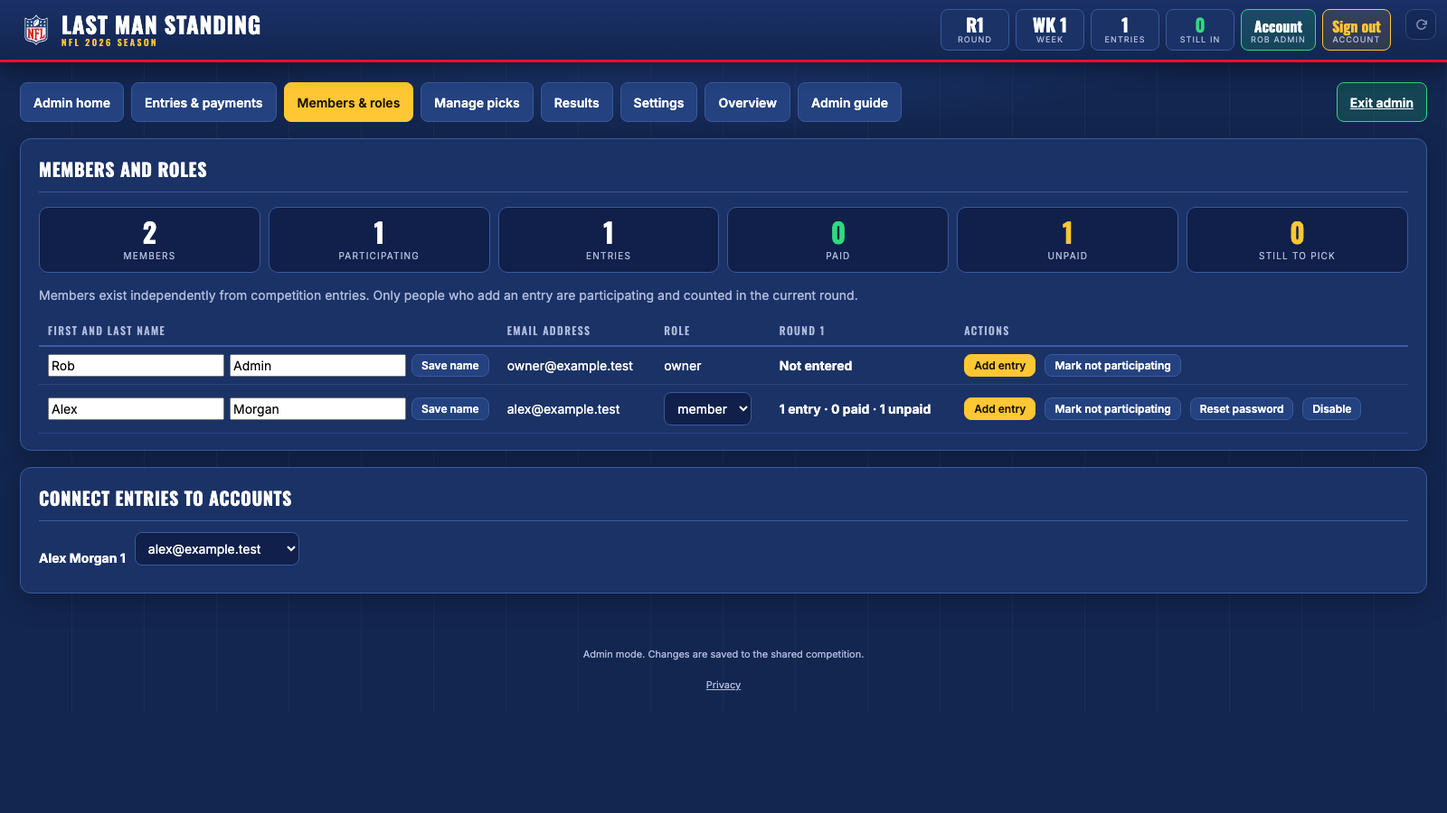
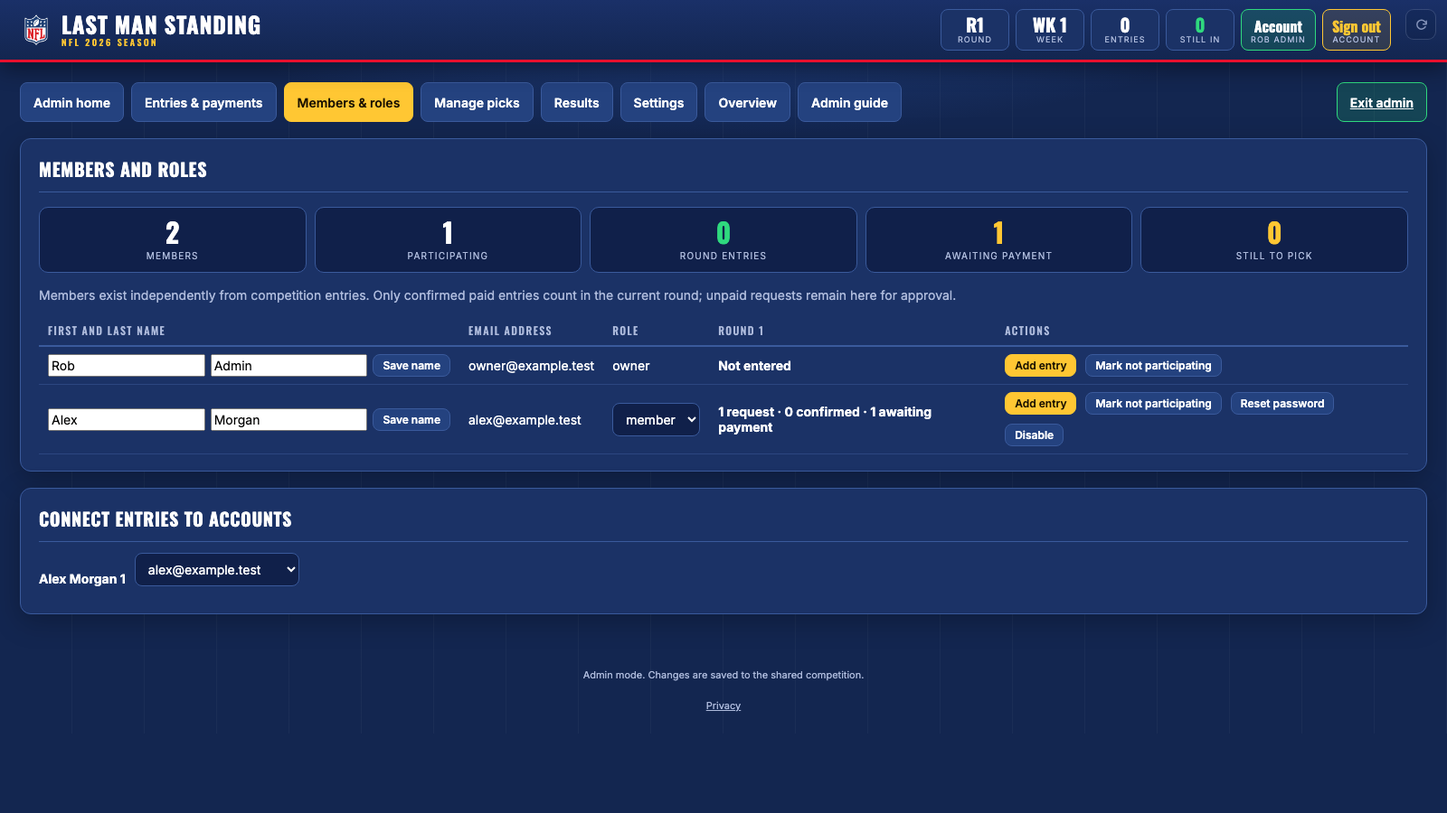
Count only confirmed competition entries

diff --git a/index.html b/index.html
@@ -346,7 +346,7 @@ html{-webkit-text-size-adjust:100%;text-size-adjust:100%}
 .account-identity{display:grid;grid-template-columns:minmax(0,1fr) auto;align-items:center;gap:18px}.account-identity h1{font-family:var(--font-head);font-size:clamp(30px,5vw,48px);line-height:1;margin:7px 0}.account-actions{display:flex;flex-wrap:wrap;justify-content:flex-end;gap:8px}.account-entry-switch{grid-column:1/-1;border-top:1px solid var(--line);padding-top:14px}.account-entry-tabs{display:flex;flex-wrap:wrap;gap:8px;margin-top:8px}.account-summary{margin-bottom:18px}.account-status{font-family:var(--font-head);font-size:clamp(28px,5vw,42px);margin:12px 0 6px}.account-status.active{color:var(--green)}.account-status.inactive{color:var(--gold)}.account-current-pick{display:flex;align-items:center;gap:14px;margin-top:12px}.account-current-pick strong{display:block;font-size:18px}.account-current-pick span{display:block;color:var(--grey);font-size:12px;margin-top:5px}.account-history{display:grid;gap:7px}.account-history-row{display:grid;grid-template-columns:70px minmax(0,1fr) auto;align-items:center;gap:12px;padding:10px 12px;background:var(--deep);border:1px solid var(--line);border-radius:9px}.account-week{color:var(--grey);font-size:12px;font-weight:700}.account-team-grid{display:grid;grid-template-columns:repeat(auto-fill,minmax(145px,1fr));gap:7px}.account-team-card{display:flex;align-items:center;gap:9px;min-width:0;padding:9px 10px;background:var(--deep);border:1px solid var(--line);border-radius:9px}.account-team-card .logo{flex:none}.account-team-card div{min-width:0}.account-team-card b,.account-team-card span{display:block;white-space:nowrap;overflow:hidden;text-overflow:ellipsis}.account-team-card span{color:var(--grey);font-size:10px;margin-top:3px}@media(max-width:650px){.account-identity{grid-template-columns:1fr}.account-actions{justify-content:flex-start}.account-history-row{grid-template-columns:58px minmax(0,1fr)}.account-history-row>.pill{grid-column:2}.account-team-grid{grid-template-columns:repeat(2,minmax(0,1fr))}.account-team-card{padding:8px}.account-team-card .logo.lg{width:32px;height:32px}}
 .member-name-editor{display:grid;grid-template-columns:minmax(110px,1fr) minmax(140px,1fr) auto;gap:6px;min-width:390px}.name-required{color:#ff9aa8;font-weight:700;margin-top:5px}@media(max-width:650px){.member-name-editor{min-width:320px}}
 .brand{width:max-content;max-width:calc(100% - 42px);text-decoration:none;color:inherit;border-radius:7px}.brand:hover h1{color:#fff}.brand:focus-visible{outline:2px solid var(--gold);outline-offset:5px}.hdr-top{position:relative;padding-right:62px}.refresh-app{position:absolute;z-index:21;right:12px;top:10px;display:flex;align-items:center;justify-content:center;width:34px;height:34px;padding:7px;border:1px solid rgba(166,181,214,.32);border-radius:9px;background:rgba(8,24,58,.28);color:var(--grey);opacity:.72;cursor:pointer}.refresh-app:hover,.refresh-app:focus-visible{opacity:1;color:#fff;border-color:var(--line);background:rgba(36,66,127,.75)}.refresh-app svg{width:17px;height:17px;fill:none;stroke:currentColor;stroke-width:2.1;stroke-linecap:round;stroke-linejoin:round}.refresh-app.refreshing svg{animation:refresh-spin .8s linear infinite}@keyframes refresh-spin{to{transform:rotate(360deg)}}@media(max-width:900px){body .hdr-top{padding-right:54px}}@media(max-width:600px){.refresh-app{right:9px;top:9px;width:32px;height:32px;padding:7px;opacity:.62}}
-.stat.account-access{min-width:76px;background:rgba(31,191,106,.2);border-color:var(--green);color:inherit;text-decoration:none}.stat.account-access .v{color:#fff;font-size:16px;padding-top:4px}.stat.signout-access{color:inherit;font:inherit}.participation-summary{display:grid;grid-template-columns:repeat(6,minmax(92px,1fr));gap:9px;margin:16px 0}.participation-summary>div{padding:12px;border:1px solid var(--line);border-radius:10px;background:var(--deep);text-align:center}.participation-summary b{display:block;font:700 30px/1 var(--font-head);color:#fff}.participation-summary span{display:block;margin-top:5px;color:var(--grey);font-size:10px;text-transform:uppercase;letter-spacing:.12em}.participation-summary .paid b{color:var(--green)}.participation-summary .unpaid b,.participation-summary .topick b{color:var(--gold)}.admin-nav .admin-exit{margin-left:auto;background:rgba(31,191,106,.2);border-color:var(--green)}@media(max-width:900px){.participation-summary{grid-template-columns:repeat(3,minmax(0,1fr))}.stat.account-access{min-width:0}}@media(max-width:520px){.participation-summary{grid-template-columns:repeat(2,minmax(0,1fr))}.stat.account-access .v{font-size:13px}.admin-nav .admin-exit{margin-left:0}}
+.stat.account-access{min-width:76px;background:rgba(31,191,106,.2);border-color:var(--green);color:inherit;text-decoration:none}.stat.account-access .v{color:#fff;font-size:16px;padding-top:4px}.stat.signout-access{color:inherit;font:inherit}.participation-summary{display:grid;grid-template-columns:repeat(5,minmax(92px,1fr));gap:9px;margin:16px 0}.participation-summary>div{padding:12px;border:1px solid var(--line);border-radius:10px;background:var(--deep);text-align:center}.participation-summary b{display:block;font:700 30px/1 var(--font-head);color:#fff}.participation-summary span{display:block;margin-top:5px;color:var(--grey);font-size:10px;text-transform:uppercase;letter-spacing:.12em}.participation-summary .paid b{color:var(--green)}.participation-summary .unpaid b,.participation-summary .topick b{color:var(--gold)}.admin-nav .admin-exit{margin-left:auto;background:rgba(31,191,106,.2);border-color:var(--green)}@media(max-width:900px){.participation-summary{grid-template-columns:repeat(3,minmax(0,1fr))}.stat.account-access{min-width:0}}@media(max-width:520px){.participation-summary{grid-template-columns:repeat(2,minmax(0,1fr))}.stat.account-access .v{font-size:13px}.admin-nav .admin-exit{margin-left:0}}
 </style>
 </head>
 <body>
@@ -753,20 +753,22 @@ function render(){
   renderHeader(r,comp);
   const main=document.getElementById('main');
   document.body.classList.toggle('ro', isRO());
-  const memberViews={dash:renderDashboard,picks:renderPicksPage,results:renderResults,standings:renderStandings};
+  const memberViews={dash:(round,competition)=>renderDashboard(round,competition,announcementBanner()+noEntryBanner()+deadlineBanner(defaultWeek())),picks:renderPicksPage,results:renderResults,standings:renderStandings};
   const adminViews={adminhome:renderAdminHome,adminhelp:renderAdminHelp,dash:renderDash,picks:renderPicks,results:renderResults,entries:renderEntries,settings:renderSettings};
   const views=ADMIN?adminViews:memberViews;
-  main.innerHTML=accountBar()+(!ADMIN?announcementBanner()+noEntryBanner():'')+(S.ui.view==='dash'?deadlineBanner(defaultWeek()):'')+(views[S.ui.view]||views.dash)(r,comp);
+  const outsideDashboard=!ADMIN&&S.ui.view!=='dash'?announcementBanner()+noEntryBanner():'';
+  main.innerHTML=accountBar()+outsideDashboard+(ADMIN&&S.ui.view==='dash'?deadlineBanner(defaultWeek()):'')+(views[S.ui.view]||views.dash)(r,comp);
   const foot=document.getElementById('foot'); if(foot) foot.innerHTML = SHARED ? (ADMIN?(HOSTED?'Admin mode. Changes are saved in this browser until you press Publish.':'Admin mode. Changes are saved in this browser; press Download and upload the new index.html to update the shared page.'):'Live standings. Updated by the organiser after each round of games.') : 'Last Man Standing. Data is saved in this browser. Use Settings &rarr; Backup to export a copy.';
   if(REMOTE && foot) foot.textContent=ADMIN?'Admin mode. Changes are saved to the shared competition.':'Live standings. Refreshes every 45 seconds.';
   if(S.ui.view==='entries') wireDrop();
 }
 function renderHeader(r,comp){
   const entries=roundEntries(r);
+  const confirmed=entries.filter(e=>entryPaid(e,r,comp)).length;
   document.getElementById('hdrStats').innerHTML=`
     <div class="stat"><div class="v">R${r.n}</div><div class="l">Round</div></div>
     <div class="stat"><div class="v">WK ${S.ui.week||defaultWeek()}</div><div class="l">Week</div></div>
-    <div class="stat"><div class="v">${entries.length}</div><div class="l">Entries</div></div>
+    <div class="stat"><div class="v">${confirmed}</div><div class="l">Entries</div></div>
     <div class="stat alive"><div class="v">${comp.alive.size}</div><div class="l">Still In</div></div>
     ${REMOTE?remoteHeader():SHARED?(ADMIN?`<div class="stat pub ${isDirty()?'dirty':''}" onclick="${HOSTED?'publishLive()':'exportLivePage()'}" title="${HOSTED?'Publish the current state so everyone with the link sees it':'Download an updated index.html to upload to your web host'}"><div class="v">${HOSTED?(isDirty()?'⬆ Publish':'✓ Live'):'⬇ Download'}</div><div class="l">${isDirty()?'unpublished changes':'up to date'}</div></div><div class="stat pub" style="border-color:var(--line);background:transparent" onclick="toggleAdmin()"><div class="v" style="color:#fff">Admin</div><div class="l">exit</div></div>`:`<div class="stat pub" style="border-color:var(--line);background:transparent;opacity:.6" onclick="toggleAdmin()" title="Organiser only"><div class="v" style="color:#fff">🔒</div><div class="l">organiser</div></div>`):''}`;
 }
@@ -786,23 +788,23 @@ function renderFixturesCard(w){
     </div>
   </div>`;
 }
-function renderHome(r,comp){
+function renderHome(r,comp,afterHero=''){
   const pot=prizePot(r,comp),entries=roundEntries(r);
   const w=defaultWeek();
-  const paid=entries.filter(e=>entryPaid(e,r,comp)).length,missing=missingEntries(w,r,comp).length;
+  const confirmed=entries.filter(e=>entryPaid(e,r,comp)),eligible=confirmed.filter(e=>isAliveForWeek(comp,w,e.id)),missing=missingEntries(w,r,comp).length,picked=eligible.filter(e=>S.picks[e.id]?.[w]).length;
   const first=GAMES.slice().sort((a,b)=>a.date.localeCompare(b.date))[0];
   const wkCur=gamesByWeek(w);
   const last=GAMES.slice().sort((a,b)=>b.date.localeCompare(a.date))[0];
   const winnerBanner = comp.complete&&comp.winnerIds ? `<div class="banner gold">🏆 Round ${r.n} ${comp.winnerIds.length===1?'winner':'shared by'}: ${esc(comp.winnerIds.map(entryName).join(', '))} - ${gbp(pot)}</div>` : '';
   return `${winnerBanner}
   <div class="homehero"><div class="heroflag"></div>
-    <div class="kick">NFL 2026 Season · ${entries.length?`${entries.length} entries`:'Entries open'}</div>
+    <div class="kick">NFL 2026 Season · ${confirmed.length?`${confirmed.length} round ${confirmed.length===1?'entry':'entries'}`:'Entries open'}</div>
     <h1 class="big">Last Man <span>Standing</span></h1>
     <p>Pick One team per week. Win to stay in, losers go out. Last man standing take the pot.</p>
     <div class="herostats">
+      <div class="herostat green"><div class="v">${confirmed.length}</div><div class="l">Round entries</div></div>
       <div class="herostat gold"><div class="v">${gbp(pot)}</div><div class="l">Current pot</div></div>
-      <div class="herostat green"><div class="v">${paid}</div><div class="l">Paid</div></div>
-      <div class="herostat gold"><div class="v">${entries.length-paid}</div><div class="l">Unpaid</div></div>
+      <div class="herostat green"><div class="v">${picked}</div><div class="l">Picked</div></div>
       <div class="herostat"><div class="v">${missing}</div><div class="l">Still to pick</div></div>
     </div>
     <div class="hero-actions">
@@ -813,6 +815,7 @@ function renderHome(r,comp){
       <a class="btn" href="/help">How to guide</a>
     </div>
   </div>
+  ${afterHero}
   <div class="card"><h2>The 32 teams <span class="tag">each team once until a rollover or new round</span></h2>
     <div class="logowall">${TEAM_LIST.map(t=>`<div class="lw">${logoImg(t.abbr,'logo xl')}<div class="ab">${esc(t.short)}</div></div>`).join('')}</div>
   </div>
@@ -839,7 +842,7 @@ function renderHome(r,comp){
   </div>`;
 }
 
-function renderDashboard(r,comp){return renderHome(r,comp);}
+function renderDashboard(r,comp,afterHero=''){return renderHome(r,comp,afterHero);}
 
 /* ---- Competition overview ---- */
 function renderDash(r,comp){
@@ -908,11 +911,10 @@ function renderDash(r,comp){
 }
 
 function renderStandings(r,comp){
-  const w=defaultWeek(),entries=roundEntries(r);
+  const w=defaultWeek(),entries=roundEntries(r).filter(e=>entryPaid(e,r,comp));
   const pot=prizePot(r,comp);
   const aliveList=entries.filter(e=>comp.alive.has(e.id)).sort((a,b)=>a.name.localeCompare(b.name));
-  const pendingList=entries.filter(e=>!entryPaid(e,r,comp)).sort((a,b)=>a.name.localeCompare(b.name));
-  const outList=entries.filter(e=>!comp.alive.has(e.id)&&!pendingList.includes(e)).sort((a,b)=>a.name.localeCompare(b.name));
+  const outList=entries.filter(e=>!comp.alive.has(e.id)).sort((a,b)=>a.name.localeCompare(b.name));
   const missing=aliveList.filter(e=>!S.picks[e.id]?.[w]&&!weekSettled(w)&&isAliveForWeek(comp,w,e.id));
   const pickCounts={};aliveList.forEach(e=>{const p=visiblePick(e.id,w);if(p&&p!=='HIDDEN')pickCounts[p]=(pickCounts[p]||0)+1;});
   const popular=Object.entries(pickCounts).sort((a,b)=>b[1]-a[1]).slice(0,8);
@@ -933,12 +935,11 @@ function renderStandings(r,comp){
     return `<div class="standing-row"><div class="standing-name"><strong>${esc(entryName(e.id))}</strong></div><div class="standing-picks" aria-label="Teams picked by ${esc(entryName(e.id))}">${picks.join('')||'<span class="muted small">No picks yet</span>'}</div></div>`;
   }).join('')}</div>`:'<div class="empty">Nobody in this group.</div>';
   return `<div class="hero">
-    <div class="bigpot"><div class="lbl">Round ${r.n} prize pot</div><div class="amt">${gbp(pot)}</div><div class="muted small">Confirmed entry and rollover fees &middot; ${entries.filter(e=>entryPaid(e,r,comp)).length} paid, ${entries.filter(e=>!entryPaid(e,r,comp)).length} unpaid</div><div style="margin-top:16px"><button class="btn" onclick="setView('picks')">Picks and history</button></div></div>
+    <div class="bigpot"><div class="lbl">Round ${r.n} prize pot</div><div class="amt">${gbp(pot)}</div><div class="muted small">Confirmed entry and rollover fees &middot; ${entries.length} round ${entries.length===1?'entry':'entries'}</div><div style="margin-top:16px"><button class="btn" onclick="setView('picks')">Picks and history</button></div></div>
     <div class="card" style="margin:0"><h2>Week ${w} status <span class="tag">${weekSettled(w)?'Settled':weekHasResults(w)?'In progress':'Upcoming'}</span></h2><div class="grid two" style="gap:10px"><div><div class="muted small">Still in</div><div style="font-family:var(--font-head);font-size:34px;color:var(--green)">${comp.alive.size}</div></div><div><div class="muted small">Picks outstanding</div><div style="font-family:var(--font-head);font-size:34px;color:${missing.length?'var(--gold)':'var(--green)'}">${missing.length}</div></div></div>${missing.length?`<div class="small muted" style="margin-top:8px">Waiting on: ${missing.slice(0,12).map(e=>esc(e.name)).join(', ')}${missing.length>12?` +${missing.length-12} more`:''}</div>`:''}<div style="margin-top:12px"><div class="muted small" style="margin-bottom:6px">Most picked this week</div>${popular.length?popular.map(([t,c])=>`<span class="av">${logoImg(t)} ${TEAMS[t].short} <b>${c}</b></span>`).join(' '):'<span class="muted small">No picks yet</span>'}</div></div>
   </div>
   <div class="card" style="margin-top:18px"><h1 style="font-family:var(--font-head);margin-top:0">Standings</h1><p class="muted">Round ${r.n}. Current Week ${w} picks stay hidden until kick-off.</p>
     <h2>Still standing <span class="tag">${aliveList.length}</span></h2>${activeList}
-    ${pendingList.length?`<h2 style="margin-top:22px">Awaiting payment <span class="tag">${pendingList.length}</span></h2>${simpleList(pendingList)}`:''}
     <h2 style="margin-top:22px">Eliminated <span class="tag">${outList.length}</span></h2>${simpleList(outList,'out')}
   </div>
   <div class="card"><h2>Live feed</h2>${feed?`<ul class="feed">${feed}</ul>`:'<div class="empty">Nothing has happened yet. Once results are in, eliminations show here.</div>'}</div>`;
@@ -1473,11 +1474,10 @@ function renderPlayer(){
   if(S.ui.view==='home')S.ui.view='dash';if(S.ui.view==='history')S.ui.view='picks';if(!['dash','picks','results','standings'].includes(S.ui.view))S.ui.view='dash';
   document.querySelectorAll('nav button').forEach(b=>b.classList.toggle('active',b.dataset.v===S.ui.view));
   renderHeader(r,comp);
-  const usedAll=usedTeams(e.id,r,comp,null);
   const currentPick=playerMe.picks[first];
-  const accountSummary=`<div class="card"><h2>Hi ${esc(e.name)} ${playerStatus(comp,e)}</h2><p class="pill ${entryPaid(e,r,comp)?'alive':'pending'}">${entryPaid(e,r,comp)?'Active (paid)':'Inactive (not paid)'} · Round ${r.n}${comp.resetWeek>r.startWeek?' · Rollover':''}</p>${e.label?`<p class="muted">Entry ${esc(e.label)}</p>`:''}<p>Current pot <b style="color:var(--gold)">${gbp(prizePot(r,comp))}</b></p><div class="row" style="margin:14px 0">${currentPick?teamChip(currentPick,'logo lg'):'<span class="muted">No Week '+first+' pick yet</span>'}${entryPaid(e,r,comp)?`<button class="btn gold" onclick="setView('picks')">${currentPick?'Change pick':'Make pick'}</button>`:'<span class="pill unpaid">Payment required before picking</span>'}</div><div class="small muted">Already used since the last reset</div><div class="avatars" style="margin-top:8px">${Object.keys(usedAll).map(t=>logoImg(t)).join('')||'<span class="muted small">No teams used yet.</span>'}</div></div>`;
-  const pages={dash:()=>deadlineBanner(first)+memberDashboardControls(e)+accountSummary+renderDashboard(r,comp),picks:()=>renderMemberPicks(e,r,comp),results:()=>renderResults(r,comp),standings:()=>renderStandings(r,comp)};
-  main.innerHTML=announcementBanner()+pages[S.ui.view]();updateCountdown();
+  const accountSummary=`<div class="card"><h2>Hi ${esc(e.name)} ${playerStatus(comp,e)}</h2><p class="pill ${entryPaid(e,r,comp)?'alive':'pending'}">${entryPaid(e,r,comp)?'Active (paid)':'Inactive (not paid)'} · Round ${r.n}${comp.resetWeek>r.startWeek?' · Rollover':''}</p>${e.label?`<p class="muted">Entry ${esc(e.label)}</p>`:''}<div class="row" style="margin:14px 0">${currentPick?teamChip(currentPick,'logo lg'):'<span class="muted">No Week '+first+' pick yet</span>'}${entryPaid(e,r,comp)?`<button class="btn gold" onclick="setView('picks')">${currentPick?'Change pick':'Make pick'}</button>`:'<span class="pill unpaid">Payment required before picking</span>'}</div></div>`;
+  const pages={dash:()=>renderDashboard(r,comp,announcementBanner()+deadlineBanner(first)+memberDashboardControls(e)+accountSummary),picks:()=>announcementBanner()+renderMemberPicks(e,r,comp),results:()=>announcementBanner()+renderResults(r,comp),standings:()=>announcementBanner()+renderStandings(r,comp)};
+  main.innerHTML=pages[S.ui.view]();updateCountdown();
 }
 function updateCountdown(){const el=document.getElementById('playerCountdown');if(!el||!playerMe)return;const w=S.ui.week,p=playerMe.picks[w],time=L.weekDeadline(w);let minutes=Math.max(0,Math.ceil((time-serverNow())/60000));el.textContent=minutes?`Locks in ${Math.floor(minutes/1440)}d ${Math.floor(minutes%1440/60)}h ${minutes%60}m`:'Pick deadline has passed.';}
 function selectPlayerTeam(team){playerSelected=team;renderPlayer();document.getElementById('confirmPlayerPick')?.scrollIntoView({behavior:'smooth',block:'center'});}
@@ -1504,7 +1504,7 @@ function renderAdminHome(r,comp){
  const tools=[['entries','Entries & payments',accountUser?.role==='owner'?'Mark payments, add people manually and use the owner-only spreadsheet importer.':'Mark payments and add individual entries. New members should register and set their own password.'],['members',accountUser?.role==='owner'?'Members & roles':'Members',accountUser?.role==='owner'?'Correct names, assign admins, manage access, link entries and reset passwords.':'Correct member names and reset member passwords.'],['picks','Manage picks','Add, replace or clear picks for any entry, including your own and deadline overrides.'],['results','Results','Fetch scores, enter results and settle the week.'],['settings','Competition settings','Manage rounds, rules, entry fees and backups.'],['dash','Competition overview','Check the prize pot, standings, missing picks and fixtures.'],['adminhelp','Admin how-to guide','Search the complete guide to payments, accounts, picks, results, rollovers and settings.']];
  return `<div class="card admin-intro"><div class="kick">${accountUser?.role==='owner'?'Owner':'Administrator'} access</div><h1>Admin area</h1><p>Manage the competition here. Use <a href="/dashboard">Dashboard</a> for your own entries and picks, just like every other member.</p>${participationSummary(summary,missing)}</div><div class="admin-tools">${tools.map(([view,label,description])=>`<button class="card admin-tool" onclick="setView('${view}')"><strong>${label}</strong><span>${description}</span><span class="admin-tool-open">Open →</span></button>`).join('')}</div>${deadlineBanner(defaultWeek())}`;
 }
-function participationSummary(summary,missing){return `<div class="participation-summary"><div><b>${summary.members}</b><span>Members</span></div><div><b>${summary.participating}</b><span>Participating</span></div><div><b>${summary.entries}</b><span>Entries</span></div><div class="paid"><b>${summary.paid}</b><span>Paid</span></div><div class="unpaid"><b>${summary.unpaid}</b><span>Unpaid</span></div><div class="topick"><b>${missing}</b><span>Still to pick</span></div></div>`;}
+function participationSummary(summary,missing){return `<div class="participation-summary"><div><b>${summary.members}</b><span>Members</span></div><div><b>${summary.participating}</b><span>Participating</span></div><div class="paid"><b>${summary.paid}</b><span>Round entries</span></div><div class="unpaid"><b>${summary.unpaid}</b><span>Awaiting payment</span></div><div class="topick"><b>${missing}</b><span>Still to pick</span></div></div>`;}
 
 function deadlineBanner(w){const d=L.weekDeadline(w);return `<div class="card deadline"><b>Week ${w} pick deadline: ${d?new Date(d).toLocaleString('en-GB',{weekday:'long',day:'numeric',month:'short',hour:'2-digit',minute:'2-digit',timeZone:'Europe/London'}):'Awaiting fixtures'} (UK time)</b><div class="small muted">All picks and changes close one hour before the first kick-off.${d&&d<=serverNow()?' This week is now locked.':''}</div></div>`;}
 function remoteHeader(){
@@ -1566,7 +1566,7 @@ async function renderMembers(){
  const nameEditor=u=>{const parts=u.name.trim().split(/\s+/),first=parts.shift()||'',last=parts.join(' '),editable=owner||u.role!=='owner';return editable?`<div class="member-name-editor"><input id="first-${u.id}" aria-label="First name for ${esc(u.name)}" value="${esc(first)}" placeholder="First name" maxlength="50"><input id="last-${u.id}" aria-label="Last name for ${esc(u.name)}" value="${esc(last)}" placeholder="Last name required" maxlength="50" required><button class="btn sm" onclick="saveMemberName('${u.id}')">Save name</button></div>${!last?'<div class="small name-required">Last name required</div>':''}`:`<b>${esc(u.name)}</b>`;};
  const ownerPanels=owner?`<div class="card"><h2>Connect entries to accounts</h2>${data.entries.length?data.entries.map(e=>`<div class="row" style="margin-bottom:12px"><b>${esc(e.name)} ${esc(e.label||'')}</b><select aria-label="Account for ${esc(e.name)}" onchange="assignEntry('${e.id}',this.value)"><option value="">${e.accountId?'Choose account':'Managed manually'}</option>${data.users.filter(u=>!u.disabled).map(u=>`<option value="${u.id}" ${e.accountId===u.id?'selected':''}>${esc(u.email)}</option>`).join('')}</select></div>`).join(''):'<p>No entries yet.</p>'}</div>`:'';
  const missing=missingEntries(defaultWeek(),currentRound(),computeRound(currentRound())).length;
- document.getElementById('main').innerHTML=accountBar()+`<div class="card"><h2>${owner?'Members and roles':'Members'}</h2>${participationSummary(data.summary,missing)}<p class="muted">Members exist independently from competition entries. Only people who add an entry are participating and counted in the current round.</p><div class="tablewrap"><table><thead><tr><th>First and last name</th><th>Email address</th><th>Role</th><th>Round ${data.round}</th><th>Actions</th></tr></thead><tbody>${data.users.map(u=>{const status=u.participation==='participating'?`${u.entryCount} ${u.entryCount===1?'entry':'entries'} · ${u.paidCount} paid · ${u.unpaidCount} unpaid`:u.participation==='not_participating'?'Not participating':'Not entered';return `<tr><td>${nameEditor(u)}</td><td>${esc(u.email)}</td><td>${owner&&u.role!=='owner'?`<select aria-label="Role for ${esc(u.name)}" onchange="memberAction('role','${u.id}',{role:this.value})"><option ${u.role==='member'?'selected':''}>member</option><option ${u.role==='admin'?'selected':''}>admin</option></select>`:esc(u.role)}</td><td><b>${status}</b></td><td><div class="row">${!u.disabled?`<button class="btn sm gold" onclick="memberAction('entry','${u.id}')">Add entry</button>`:''}${u.participation==='not_participating'?`<button class="btn sm" onclick="memberAction('participation','${u.id}',{status:'not_entered'})">Clear status</button>`:`<button class="btn sm" onclick="memberAction('participation','${u.id}',{status:'not_participating'})">Mark not participating</button>`}${u.role!=='owner'&&(owner||u.role==='member')?`<button class="btn sm" onclick="memberAction('reset-link','${u.id}')">Reset password</button>`:''}${owner&&u.role!=='owner'?`<button class="btn sm" onclick="memberAction('disable','${u.id}',{disabled:${!u.disabled}})">${u.disabled?'Enable':'Disable'}</button>`:''}</div></td></tr>`;}).join('')}</tbody></table></div></div>${ownerPanels}`;
+ document.getElementById('main').innerHTML=accountBar()+`<div class="card"><h2>${owner?'Members and roles':'Members'}</h2>${participationSummary(data.summary,missing)}<p class="muted">Members exist independently from competition entries. Only confirmed paid entries count in the current round; unpaid requests remain here for approval.</p><div class="tablewrap"><table><thead><tr><th>First and last name</th><th>Email address</th><th>Role</th><th>Round ${data.round}</th><th>Actions</th></tr></thead><tbody>${data.users.map(u=>{const status=u.participation==='participating'?`${u.entryCount} ${u.entryCount===1?'request':'requests'} · ${u.paidCount} confirmed · ${u.unpaidCount} awaiting payment`:u.participation==='not_participating'?'Not participating':'Not entered';return `<tr><td>${nameEditor(u)}</td><td>${esc(u.email)}</td><td>${owner&&u.role!=='owner'?`<select aria-label="Role for ${esc(u.name)}" onchange="memberAction('role','${u.id}',{role:this.value})"><option ${u.role==='member'?'selected':''}>member</option><option ${u.role==='admin'?'selected':''}>admin</option></select>`:esc(u.role)}</td><td><b>${status}</b></td><td><div class="row">${!u.disabled?`<button class="btn sm gold" onclick="memberAction('entry','${u.id}')">Add entry</button>`:''}${u.participation==='not_participating'?`<button class="btn sm" onclick="memberAction('participation','${u.id}',{status:'not_entered'})">Clear status</button>`:`<button class="btn sm" onclick="memberAction('participation','${u.id}',{status:'not_participating'})">Mark not participating</button>`}${u.role!=='owner'&&(owner||u.role==='member')?`<button class="btn sm" onclick="memberAction('reset-link','${u.id}')">Reset password</button>`:''}${owner&&u.role!=='owner'?`<button class="btn sm" onclick="memberAction('disable','${u.id}',{disabled:${!u.disabled}})">${u.disabled?'Enable':'Disable'}</button>`:''}</div></td></tr>`;}).join('')}</tbody></table></div></div>${ownerPanels}`;
  }catch(e){toast(esc(e.message));}
 }
 async function saveMemberName(userId){const firstName=document.getElementById('first-'+userId)?.value||'',lastName=document.getElementById('last-'+userId)?.value||'';try{await accountCall('name',{userId,firstName,lastName});applyRemote(await apiRequest('/api/state'));await renderMembers();toast('Member name updated.');}catch(e){toast(esc(e.message));}}

diff --git a/lib/account-client.js b/lib/account-client.js
@@ -8,7 +8,7 @@ function renderAdminHome(r,comp){
  const tools=[['entries','Entries & payments',accountUser?.role==='owner'?'Mark payments, add people manually and use the owner-only spreadsheet importer.':'Mark payments and add individual entries. New members should register and set their own password.'],['members',accountUser?.role==='owner'?'Members & roles':'Members',accountUser?.role==='owner'?'Correct names, assign admins, manage access, link entries and reset passwords.':'Correct member names and reset member passwords.'],['picks','Manage picks','Add, replace or clear picks for any entry, including your own and deadline overrides.'],['results','Results','Fetch scores, enter results and settle the week.'],['settings','Competition settings','Manage rounds, rules, entry fees and backups.'],['dash','Competition overview','Check the prize pot, standings, missing picks and fixtures.'],['adminhelp','Admin how-to guide','Search the complete guide to payments, accounts, picks, results, rollovers and settings.']];
  return `<div class="card admin-intro"><div class="kick">${accountUser?.role==='owner'?'Owner':'Administrator'} access</div><h1>Admin area</h1><p>Manage the competition here. Use <a href="/dashboard">Dashboard</a> for your own entries and picks, just like every other member.</p>${participationSummary(summary,missing)}</div><div class="admin-tools">${tools.map(([view,label,description])=>`<button class="card admin-tool" onclick="setView('${view}')"><strong>${label}</strong><span>${description}</span><span class="admin-tool-open">Open →</span></button>`).join('')}</div>${deadlineBanner(defaultWeek())}`;
 }
-function participationSummary(summary,missing){return `<div class="participation-summary"><div><b>${summary.members}</b><span>Members</span></div><div><b>${summary.participating}</b><span>Participating</span></div><div><b>${summary.entries}</b><span>Entries</span></div><div class="paid"><b>${summary.paid}</b><span>Paid</span></div><div class="unpaid"><b>${summary.unpaid}</b><span>Unpaid</span></div><div class="topick"><b>${missing}</b><span>Still to pick</span></div></div>`;}
+function participationSummary(summary,missing){return `<div class="participation-summary"><div><b>${summary.members}</b><span>Members</span></div><div><b>${summary.participating}</b><span>Participating</span></div><div class="paid"><b>${summary.paid}</b><span>Round entries</span></div><div class="unpaid"><b>${summary.unpaid}</b><span>Awaiting payment</span></div><div class="topick"><b>${missing}</b><span>Still to pick</span></div></div>`;}
 
 function deadlineBanner(w){const d=L.weekDeadline(w);return `<div class="card deadline"><b>Week ${w} pick deadline: ${d?new Date(d).toLocaleString('en-GB',{weekday:'long',day:'numeric',month:'short',hour:'2-digit',minute:'2-digit',timeZone:'Europe/London'}):'Awaiting fixtures'} (UK time)</b><div class="small muted">All picks and changes close one hour before the first kick-off.${d&&d<=serverNow()?' This week is now locked.':''}</div></div>`;}
 function remoteHeader(){
@@ -70,7 +70,7 @@ async function renderMembers(){
  const nameEditor=u=>{const parts=u.name.trim().split(/\s+/),first=parts.shift()||'',last=parts.join(' '),editable=owner||u.role!=='owner';return editable?`<div class="member-name-editor"><input id="first-${u.id}" aria-label="First name for ${esc(u.name)}" value="${esc(first)}" placeholder="First name" maxlength="50"><input id="last-${u.id}" aria-label="Last name for ${esc(u.name)}" value="${esc(last)}" placeholder="Last name required" maxlength="50" required><button class="btn sm" onclick="saveMemberName('${u.id}')">Save name</button></div>${!last?'<div class="small name-required">Last name required</div>':''}`:`<b>${esc(u.name)}</b>`;};
  const ownerPanels=owner?`<div class="card"><h2>Connect entries to accounts</h2>${data.entries.length?data.entries.map(e=>`<div class="row" style="margin-bottom:12px"><b>${esc(e.name)} ${esc(e.label||'')}</b><select aria-label="Account for ${esc(e.name)}" onchange="assignEntry('${e.id}',this.value)"><option value="">${e.accountId?'Choose account':'Managed manually'}</option>${data.users.filter(u=>!u.disabled).map(u=>`<option value="${u.id}" ${e.accountId===u.id?'selected':''}>${esc(u.email)}</option>`).join('')}</select></div>`).join(''):'<p>No entries yet.</p>'}</div>`:'';
  const missing=missingEntries(defaultWeek(),currentRound(),computeRound(currentRound())).length;
- document.getElementById('main').innerHTML=accountBar()+`<div class="card"><h2>${owner?'Members and roles':'Members'}</h2>${participationSummary(data.summary,missing)}<p class="muted">Members exist independently from competition entries. Only people who add an entry are participating and counted in the current round.</p><div class="tablewrap"><table><thead><tr><th>First and last name</th><th>Email address</th><th>Role</th><th>Round ${data.round}</th><th>Actions</th></tr></thead><tbody>${data.users.map(u=>{const status=u.participation==='participating'?`${u.entryCount} ${u.entryCount===1?'entry':'entries'} · ${u.paidCount} paid · ${u.unpaidCount} unpaid`:u.participation==='not_participating'?'Not participating':'Not entered';return `<tr><td>${nameEditor(u)}</td><td>${esc(u.email)}</td><td>${owner&&u.role!=='owner'?`<select aria-label="Role for ${esc(u.name)}" onchange="memberAction('role','${u.id}',{role:this.value})"><option ${u.role==='member'?'selected':''}>member</option><option ${u.role==='admin'?'selected':''}>admin</option></select>`:esc(u.role)}</td><td><b>${status}</b></td><td><div class="row">${!u.disabled?`<button class="btn sm gold" onclick="memberAction('entry','${u.id}')">Add entry</button>`:''}${u.participation==='not_participating'?`<button class="btn sm" onclick="memberAction('participation','${u.id}',{status:'not_entered'})">Clear status</button>`:`<button class="btn sm" onclick="memberAction('participation','${u.id}',{status:'not_participating'})">Mark not participating</button>`}${u.role!=='owner'&&(owner||u.role==='member')?`<button class="btn sm" onclick="memberAction('reset-link','${u.id}')">Reset password</button>`:''}${owner&&u.role!=='owner'?`<button class="btn sm" onclick="memberAction('disable','${u.id}',{disabled:${!u.disabled}})">${u.disabled?'Enable':'Disable'}</button>`:''}</div></td></tr>`;}).join('')}</tbody></table></div></div>${ownerPanels}`;
+ document.getElementById('main').innerHTML=accountBar()+`<div class="card"><h2>${owner?'Members and roles':'Members'}</h2>${participationSummary(data.summary,missing)}<p class="muted">Members exist independently from competition entries. Only confirmed paid entries count in the current round; unpaid requests remain here for approval.</p><div class="tablewrap"><table><thead><tr><th>First and last name</th><th>Email address</th><th>Role</th><th>Round ${data.round}</th><th>Actions</th></tr></thead><tbody>${data.users.map(u=>{const status=u.participation==='participating'?`${u.entryCount} ${u.entryCount===1?'request':'requests'} · ${u.paidCount} confirmed · ${u.unpaidCount} awaiting payment`:u.participation==='not_participating'?'Not participating':'Not entered';return `<tr><td>${nameEditor(u)}</td><td>${esc(u.email)}</td><td>${owner&&u.role!=='owner'?`<select aria-label="Role for ${esc(u.name)}" onchange="memberAction('role','${u.id}',{role:this.value})"><option ${u.role==='member'?'selected':''}>member</option><option ${u.role==='admin'?'selected':''}>admin</option></select>`:esc(u.role)}</td><td><b>${status}</b></td><td><div class="row">${!u.disabled?`<button class="btn sm gold" onclick="memberAction('entry','${u.id}')">Add entry</button>`:''}${u.participation==='not_participating'?`<button class="btn sm" onclick="memberAction('participation','${u.id}',{status:'not_entered'})">Clear status</button>`:`<button class="btn sm" onclick="memberAction('participation','${u.id}',{status:'not_participating'})">Mark not participating</button>`}${u.role!=='owner'&&(owner||u.role==='member')?`<button class="btn sm" onclick="memberAction('reset-link','${u.id}')">Reset password</button>`:''}${owner&&u.role!=='owner'?`<button class="btn sm" onclick="memberAction('disable','${u.id}',{disabled:${!u.disabled}})">${u.disabled?'Enable':'Disable'}</button>`:''}</div></td></tr>`;}).join('')}</tbody></table></div></div>${ownerPanels}`;
  }catch(e){toast(esc(e.message));}
 }
 async function saveMemberName(userId){const firstName=document.getElementById('first-'+userId)?.value||'',lastName=document.getElementById('last-'+userId)?.value||'';try{await accountCall('name',{userId,firstName,lastName});applyRemote(await apiRequest('/api/state'));await renderMembers();toast('Member name updated.');}catch(e){toast(esc(e.message));}}

diff --git a/video/src/AdminExplainer.jsx b/video/src/AdminExplainer.jsx
@@ -20,12 +20,12 @@ const body = 'Inter, Arial, sans-serif';
 const scenes = [
   {image:'01-register-empty.png',duration:180,step:'1',title:'Start with Register',detail:'New users click Register. Sign in is only for people who already have an account.',x:835,y:225,caption:'bottom'},
   {image:'02-register-filled.png',duration:180,step:'1',title:'Enter all four details',detail:'Add first name, last name, email and a password of at least seven characters. Then click Register and create account.',x:960,y:816,caption:'top'},
-  {image:'03-member-dashboard.png',duration:180,step:'2',title:'Registration creates a member',detail:'The new member is not counted as an entry yet. They choose Add an entry or mark themselves as not participating.',x:110,y:288,caption:'bottom',label:'Add an entry'},
-  {image:'04-member-account.png',duration:180,step:'2',title:'The member joins the round',detail:'The first entry is now counted and starts unpaid. Members can add or remove unpaid entries from Dashboard.',x:360,y:320,caption:'bottom',label:'Add another entry'},
+  {image:'03-member-dashboard.png',duration:180,step:'2',title:'Registration creates a member',detail:'The new member is not counted as an entry yet. They choose Add an entry or mark themselves as not participating.',x:105,y:582,caption:'bottom',label:'Add an entry'},
+  {image:'04-member-account.png',duration:180,step:'2',title:'The member joins the round',detail:'The first entry is now counted and starts unpaid. Members can add or remove unpaid entries from Dashboard.',x:300,y:610,caption:'bottom',label:'Add another entry'},
   {image:'05-admin-home.png',duration:180,step:'3',title:'Open the Admin area',detail:'The owner sees every tool here. Use these cards or the navigation bar to move between admin jobs.',x:322,y:505,caption:'bottom',label:'Entries & payments'},
-  {image:'06-members-before-role.png',duration:180,step:'4',title:'Assign an admin role',detail:'Open Members & roles, find the person and change their Role menu from member to admin.',x:785,y:452,caption:'bottom'},
-  {image:'07-members-admin-role.png',duration:150,step:'4',title:'The role changes immediately',detail:'Admins can manage payments, members, picks and results. Only the owner can assign roles or import a spreadsheet.',x:785,y:452,caption:'bottom',label:'admin'},
-  {image:'08-entries-unpaid.png',duration:180,step:'5',title:'Approve each numbered entry',detail:'Open Entries & payments and click Mark paid beside the exact entry that has paid.',x:886,y:707,caption:'top',label:'Mark paid'},
+  {image:'06-members-before-role.png',duration:180,step:'4',title:'Assign an admin role',detail:'Open Members & roles, find the person and change their Role menu from member to admin.',x:750,y:404,caption:'bottom'},
+  {image:'07-members-admin-role.png',duration:150,step:'4',title:'The role changes immediately',detail:'Admins can manage payments, members, picks and results. Only the owner can assign roles or import a spreadsheet.',x:750,y:404,caption:'bottom',label:'admin'},
+  {image:'08-entries-unpaid.png',duration:180,step:'5',title:'Approve each numbered entry',detail:'Open Entries & payments and click Mark paid beside the exact entry that has paid.',x:445,y:712,caption:'top',label:'Mark paid'},
   {image:'09-entries-paid.png',duration:210,step:'5',title:'Paid entries become active',detail:'The Paid, status and prize-pot figures update together. Owner and admin entries must also be marked paid.',x:820,y:709,caption:'top',label:'Paid'},
   {image:'10-manage-picks.png',duration:180,step:'6',title:'Choose the member and week',detail:'Open Manage picks, select the week, then click Choose team on the correct numbered entry.',x:640,y:596,caption:'top',label:'Choose team'},
   {image:'11-team-picker.png',duration:240,step:'6',title:'Click the requested team',detail:'The real team grid shows the fixture and blocks used or bye teams. Here the admin selects Kansas City Chiefs.',x:1056,y:700,caption:'top',label:'Chiefs'},

diff --git a/tests/logic.test.js b/tests/logic.test.js
@@ -51,10 +51,11 @@ test('mobile navigation, refresh, help, privacy and announcements stay wired',()
  assert.match(current,/<a class="brand" id="homeBrand" href="\/"/);assert.match(current,/\.refresh-app\{position:absolute/);assert.doesNotMatch(current,/\.refresh-app\{position:fixed/);
   assert.match(current,/How to use NFL LMS/);assert.match(current,/Admin how-to guide/);assert.match(current,/Connor or Havo/);assert.match(current,/function filterHelp\(/);
   assert.match(current,/function renderPrivacyPage\(/);assert.match(current,/function announcementBanner\(/);assert.match(current,/Member announcement/);
-  assert.match(current,/function renderDashboard\(r,comp\)\{return renderHome\(r,comp\);\}/);
+  assert.match(current,/function renderDashboard\(r,comp,afterHero=''\)\{return renderHome\(r,comp,afterHero\);\}/);
   assert.match(current,/function renderAccountPage\(/);assert.doesNotMatch(current,/dash:\(\)=>memberTools\(\)\+deadlineBanner/);
   const header=current.match(/function renderHeader\(r,comp\)\{[\s\S]*?\n\}/)[0];assert.match(header,/>Round<\/div>/);assert.match(header,/>Week<\/div>/);assert.match(header,/>Entries<\/div>/);assert.match(header,/>Still In<\/div>/);assert.doesNotMatch(header,/>Prize Pot<\/div>|>Paid<\/div>|>Unpaid<\/div>|>Still to pick<\/div>/);
-  assert.match(current,/href="\/login"><div class="v" style="font-size:18px">Sign in/);assert.match(current,/Current pot<\/div>/);assert.match(current,/Still to pick<\/div>/);assert.match(current,/class="btn admin-exit" href="\/dashboard">Exit admin/);
+  assert.match(current,/href="\/login"><div class="v" style="font-size:18px">Sign in/);assert.match(current,/Round entries<\/div>/);assert.match(current,/Current pot<\/div>/);assert.match(current,/Picked<\/div>/);assert.match(current,/Still to pick<\/div>/);assert.match(current,/class="btn admin-exit" href="\/dashboard">Exit admin/);
+  const standings=current.match(/function renderStandings\(r,comp\)\{[\s\S]*?\/\* ---- Picks ---- \*\//)[0];assert.doesNotMatch(standings,/Awaiting payment|paid, .* unpaid/);
   assert.match(current,/accountUser\?\.name/);assert.match(current,/Add another entry/);assert.match(current,/Choose an entry/);assert.match(current,/must be approved and marked paid/);
   assert.match(current,/Rob O’Shea 1/);assert.match(current,/function entryName\(id\)/);assert.match(current,/accountPage==='\/account'\)return renderAccountPage/);
   assert.match(current,/New player\?/);assert.match(current,/Register before you sign in/);assert.match(current,/Register and create account/);assert.match(current,/href="\/signup"/);

diff --git a/tests/api.test.js b/tests/api.test.js
@@ -19,9 +19,10 @@ test('ordered validation: unknown code, unpaid, bad week, eliminated, locked, by
 test('before kick-off save, me privacy, public masking, server clock reveal without a DB write',async()=>{
   const c=setup();const saved=await pick(c,1,first.home);assert.equal(saved.status,200);assert.equal(saved.body.picks[1],first.home);
   const me=await call(c.handlers.me,{code:'alice12345'});assert.equal(me.body.picks[1],first.home);assert.equal(me.body.entry.email,undefined);assert.equal(me.body.entry.code,undefined);
-  const hidden=await call(c.handlers.state);assert.equal(hidden.body.picks.alice[1],'HIDDEN');assert.equal(hidden.body.entries[0].code,undefined);assert.equal(hidden.body.entries[0].email,undefined);assert.equal(hidden.headers['Cache-Control'],'no-store');
+  await c.db.mutate(S=>{S.entries.find(e=>e.id==='bob').paid=false;S.picks.bob={1:first.away};});
+  const hidden=await call(c.handlers.state);assert.equal(hidden.body.picks.alice[1],'HIDDEN');assert.equal(hidden.body.entries[0].code,undefined);assert.equal(hidden.body.entries[0].email,undefined);assert.equal(hidden.body.entries.some(e=>e.id==='bob'),false);assert.equal(hidden.body.picks.bob,undefined);assert.equal(hidden.headers['Cache-Control'],'no-store');
   c.clock(new Date(first.date).getTime());const shown=await call(c.handlers.state);assert.equal(shown.body.picks.alice[1],first.home);assert.notEqual(shown.body.updatedAt,hidden.body.updatedAt);
-  const admin=await call(c.handlers.state,{key:'test-admin'});assert.equal(admin.body.admin,true);assert.equal(admin.body.entries[0].code,'alice12345');
+  const admin=await call(c.handlers.state,{key:'test-admin'});assert.equal(admin.body.admin,true);assert.equal(admin.body.entries[0].code,'alice12345');assert.equal(admin.body.entries.some(e=>e.id==='bob'),true);
   assert.equal((await call(c.handlers.me,{code:'nope'})).status,404);
 });
 test('deadline boundaries: first pick, existing pick, target, change and clear',async()=>{

diff --git a/lib/api.js b/lib/api.js
@@ -13,12 +13,15 @@ function isAdmin(req,key) {
 }
 const publicEntry = ({id,name,label,paid,round,rolloverPayments}) => ({id,name,label,paid,round:round||1,rolloverPayments:rolloverPayments||{}});
 function statePayload(S,admin,now,revealPicks=admin) {
+  const visibleEntries=admin?S.entries:S.entries.filter(entry=>{const round=S.rounds.find(r=>r.n===(entry.round||1));return round&&L.isPaid(entry,round,L.computeRound(S,round));});
+  const visibleIds=new Set(visibleEntries.map(entry=>entry.id));
   const picks={};
   for (const [id,weeks] of Object.entries(S.picks)) {
+    if(!admin&&!visibleIds.has(id))continue;
     picks[id]={};
     for (const [week,team] of Object.entries(weeks)) picks[id][week]=revealPicks || (L.kickoff(team,+week)!==null && L.kickoff(team,+week)<=now) ? team : 'HIDDEN';
   }
-  const state={settings:{...S.settings,wipeoutResetTeams:true},entries:admin?S.entries:S.entries.map(publicEntry),picks,results:S.results,rounds:S.rounds,admin};
+  const state={settings:{...S.settings,wipeoutResetTeams:true},entries:admin?visibleEntries:visibleEntries.map(publicEntry),picks,results:S.results,rounds:S.rounds,admin};
   // A content revision changes at kick-off even when nobody writes to the database.
   return {...state,updatedAt:hash(state),...(admin?{revision:revision(S)}:{}),serverTime:new Date(now).toISOString()};
 }
